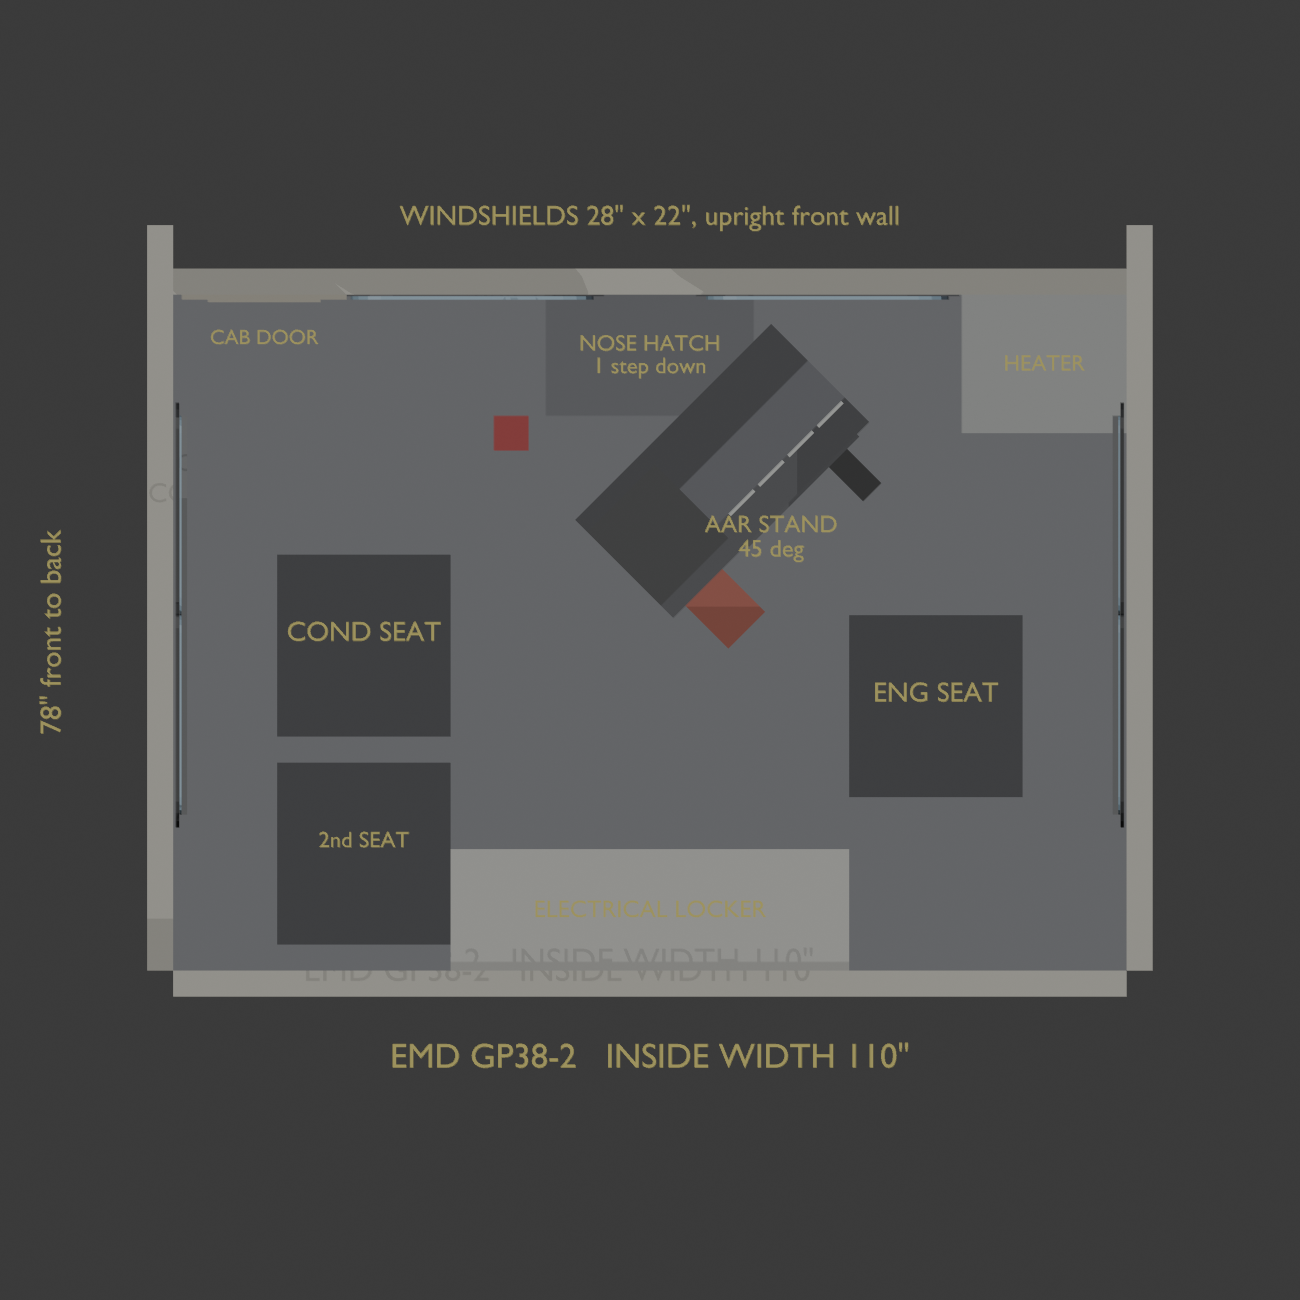
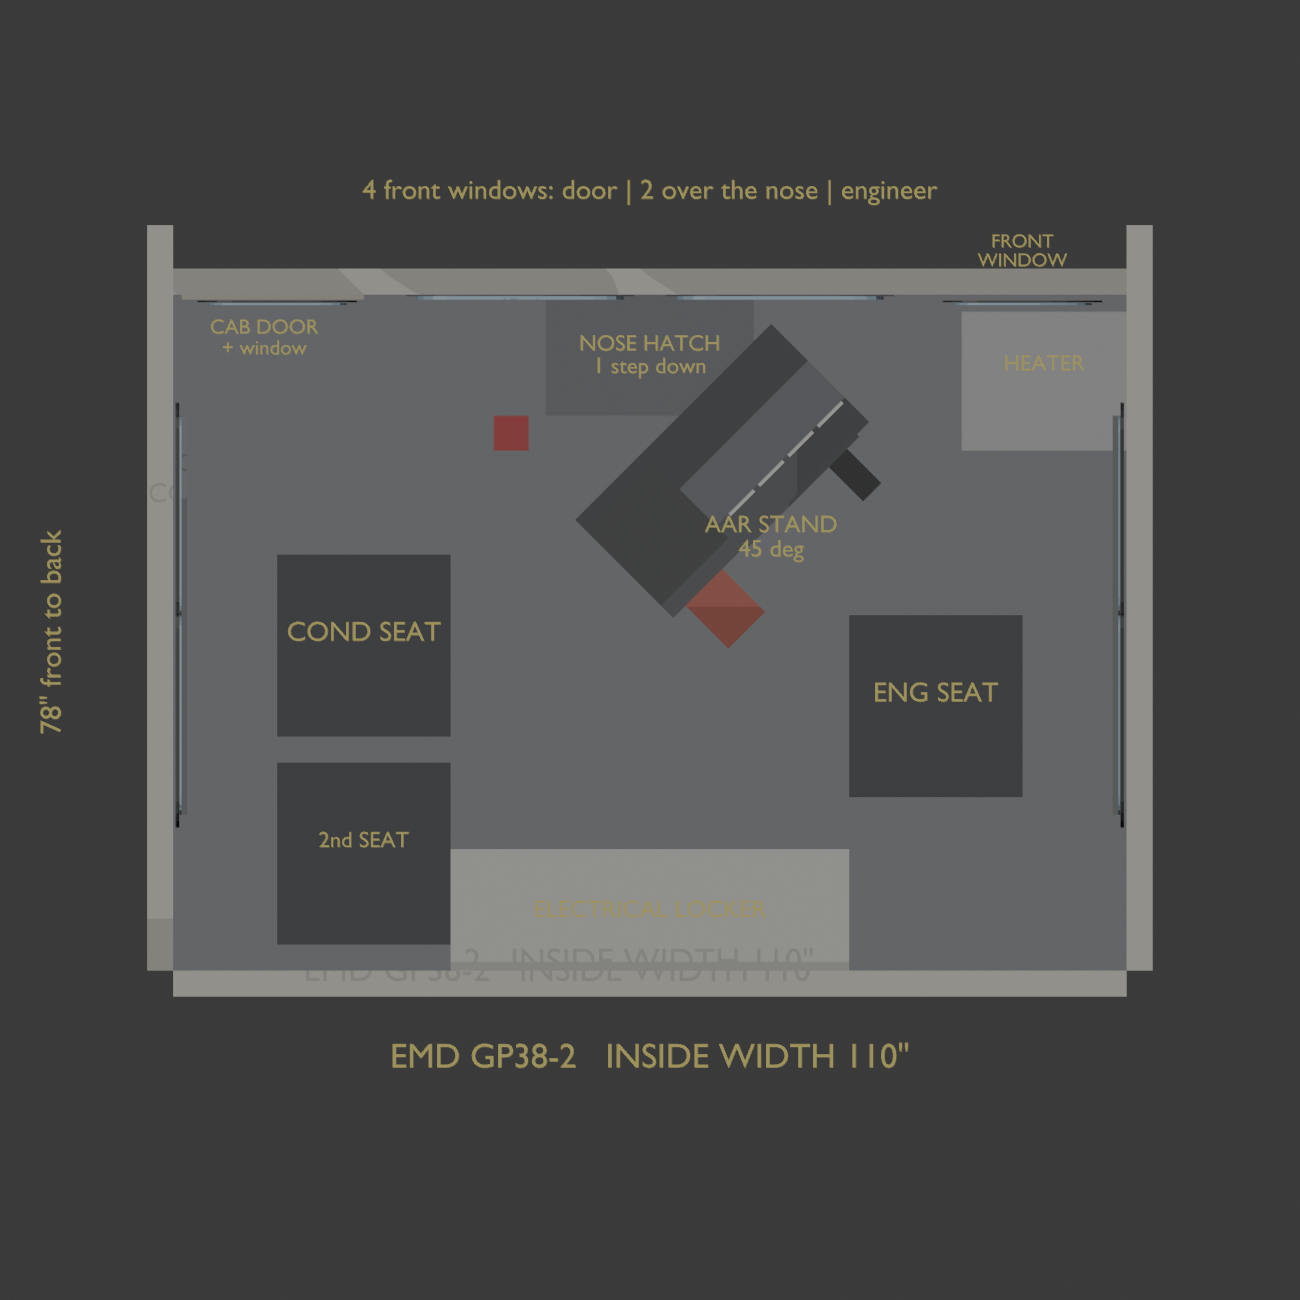
GP38-2 gray-box: four front windows (door window, two over the nose, engineer window)
Claude-Session: https://claude.ai/code/session_01WbYpzw6LFdY8a8Ci8fYN6M

diff --git a/tools/cabdesign/blockout.py b/tools/cabdesign/blockout.py
@@ -60,8 +60,9 @@ if MODEL == "gp38":
     HW = W / 2
     CEIL_C, CEIL_S = 80.0, 74.0
     SILL, RAKE, VEE = 40.0, 0.0, 0.0
-    WIN_W, WIN_H_IN, WIN_H_OUT, WIN_LIFT, WIN_R = 28.0, 22.0, 22.0, 0.0, 3.5
-    POST = 13.0                                 # windshields centred 20.5" either side of centre
+    WIN_W, WIN_H_IN, WIN_H_OUT, WIN_LIFT, WIN_R = 24.0, 22.0, 22.0, 0.0, 3.5
+    POST = 6.0                                  # two centre windshields over the short hood
+    OUT_X0, OUT_X1, OUT_Z0, OUT_Z1 = 35.0, 51.0, 34.0, 64.0   # outer windows beside the nose
     DOOR_C, DOOR_W, WELL_D = 0.0, 24.0, 14.0    # nose hatch, one awkward step down
     SEAT_CX, SEAT_FRONT = HW - 22.0, 37.0
     SW_BOT, SW_TOP = 40.0, 62.0
@@ -207,8 +208,15 @@ dy = vee(DOOR_C)
 box("front_door", DL, DR, dy + 0.5, dy + T, -17, HATCH_TOP, (0.55, 0.5, 0.42))
 if MODEL == "gp38":
     # cab door in the front-left corner, out to the front walkway, with a window like the windshields
-    box("cabdoor", -HW + 1, -HW + 20, -0.6, 0, 0, SILL + WIN_H_IN + 3, (0.6, 0.55, 0.45))
-    box("cabdoor_glass", -HW + 4, -HW + 17, -0.9, -0.6, SILL, SILL + WIN_H_IN, GLASS)
+    # conductor side: cab door with a tall window; engineer side: matching tall window.
+    # Both look out past the side of the short hood along the front walkway.
+    box("cabdoor", -HW + 1, -OUT_X0 + 2, -0.6, 0, 0, OUT_Z1 + 4, (0.6, 0.55, 0.45))
+    for sx in (-1, 1):
+        xa, xb = sorted((OUT_X0 * sx, OUT_X1 * sx))
+        fr = rounded([(xa - 1.2, OUT_Z0 - 1.2), (xb + 1.2, OUT_Z0 - 1.2), (xb + 1.2, OUT_Z1 + 1.2), (xa - 1.2, OUT_Z1 + 1.2)], 4.0)
+        prism("outframe%d" % sx, [(x, -0.7, z) for x, z in fr], (0, -0.2, 0), (0.08, 0.08, 0.08))
+        gl = rounded([(xa, OUT_Z0), (xb, OUT_Z0), (xb, OUT_Z1), (xa, OUT_Z1)], 3.0)
+        prism("outglass%d" % sx, [(x, -1.0, z) for x, z in gl], (0, -0.2, 0), GLASS)
 # raked upper front wall, two halves meeting at the centre post
 ztop = CEIL_C + 1
 up = [(0, SILL), (T, SILL), (T + rake_y(ztop), ztop), (rake_y(ztop), ztop)]
@@ -306,7 +314,7 @@ if MODEL == "gp38":
         rbox("gauge%d" % k, SC, SA, -3 + k * 4.8, 1 + k * 4.8, -4, -3.6, 42, 46.5, (0.85, 0.85, 0.8))
     rbox("radio", SC, SA, -16, -5, -14, -2, 46, 52, (0.08, 0.08, 0.08))
     # heater cabinet ahead of the engineer by the right wall, extinguisher by the hatch
-    box("heater", HW - 19, HW, -16, 0, 0, 28, (0.75, 0.75, 0.72))
+    box("heater", HW - 19, HW, -18, -2, 0, 28, (0.75, 0.75, 0.72))
     box("extinguisher", -18, -14, -18, -14, 0, 16, (0.8, 0.1, 0.1))
     # electrical locker on the back wall, floor to ceiling
     box("locker", -23, 23, -L, -L + 14, 0, CEIL_C - 1, (0.78, 0.76, 0.70))
@@ -358,9 +366,10 @@ if MODEL == "gp38":
     label('COND SEAT', -HW + 22, -30 - SEAT_D / 2)
     label('2nd SEAT', -HW + 22, -54 - SEAT_D / 2, size=2.6)
     label('NOSE HATCH\n1 step down', 0, -7, size=2.6)
-    label('CAB DOOR', -HW + 10.5, -5, size=2.4)
+    label('CAB DOOR\n+ window', -HW + 10.5, -5, size=2.4)
+    label('FRONT\nWINDOW', 43, 5, size=2.2)
     label('ELECTRICAL LOCKER', 0, -L + 7, size=2.8)
-    label('WINDSHIELDS 28" x 22", upright front wall', 0, 9, size=3.2)
+    label('4 front windows: door | 2 over the nose | engineer', 0, 12, size=3.2)
     label('EMD GP38-2   INSIDE WIDTH %d"' % W, 0, -L - 10, size=4)
     label('%d" front to back' % L, -HW - 14, -L / 2, size=3.4, rot=90)
 else:
